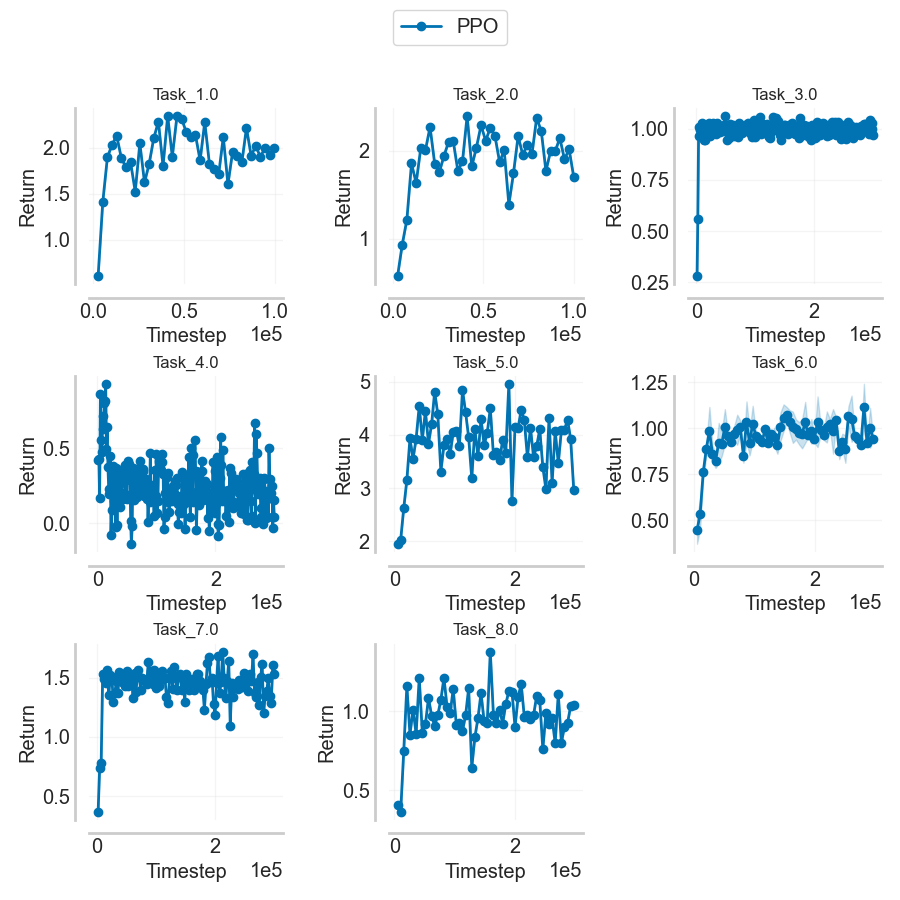
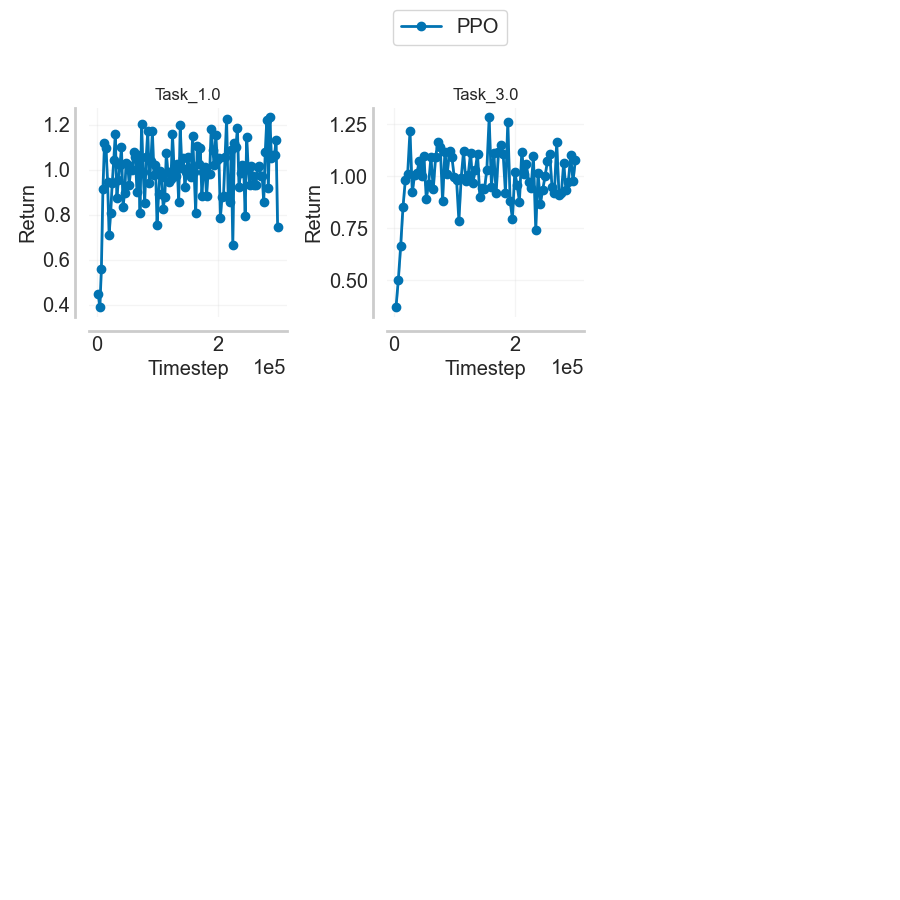
save data for each environments to individual spaces

diff --git a/plotting/plot_no_avg.py b/plotting/plot_no_avg.py
@@ -1,0 +1,79 @@
+import os
+
+import numpy as np
+import seaborn
+
+import matplotlib
+from sympy.printing.pretty.pretty_symbology import line_width
+
+matplotlib.use('TkAgg')
+import matplotlib.pyplot as plt
+
+from rliable import library as rly
+from rliable import metrics
+from rliable.plot_utils import plot_sample_efficiency_curve
+
+from utils import get_data
+
+if __name__ == "__main__":
+
+    data_dict = {}
+    seaborn.set_theme(style='whitegrid')
+
+    n_rows = 3
+    n_cols = 3
+    fig = plt.figure(figsize=(n_cols*3,n_rows*3))
+    i = 1
+
+    env_ids = ['Task_1.0', 'Task_2.0', 'Task_3.0', 'Task_4.0', 'Task_5.0', 'Task_6.0', 'Task_7.0', 'Task_8.0', 'Task_9.0']
+
+    for env_id in env_ids:
+        results_dir = f"../results/{env_id}/ppo/"
+        if not os.path.exists(results_dir):
+            print (f'Task {env_id} does not have result!')
+            continue
+
+        ax = plt.subplot(n_rows, n_cols, i)
+        ax.set_title(env_id)
+        i+=1
+
+        plt.ticklabel_format(style='sci', axis='x', scilimits=(0, 0))
+
+        # individual record for each environment
+        timesteps, returns, env_ids = get_data(results_dir, x_name='timestep', y_name='returns')
+        returns = returns[0]
+
+        if isinstance(returns, float):
+            ax.plot(timesteps, returns, label='Mean Return')
+        else:  # Handling return_list
+            num_envs = len(returns[0])  # Number of environments
+            num_timesteps = len(timesteps)  # Number of timesteps
+
+            env_returns = [[] for _ in range(num_envs)]
+
+            # Organizing data per environment
+            for t in range(num_timesteps):
+                for env in range(num_envs):
+                    env_returns[env].append(returns[t][env])
+
+            # Plot each environment's results
+            for env_idx, env_data in enumerate(env_returns):
+                ax.plot(timesteps, env_data, label=env_ids[env_idx],linewidth=1.0)
+
+        # Set log scale
+        # plt.xscale('log')
+        # plt.yscale('log')
+        ax.legend(loc="upper left", fontsize="small")
+
+    plt.tight_layout()
+
+    # Push plots down to make room for the the legend
+    fig.subplots_adjust(top=0.88)
+
+
+    save_dir = f'figures'
+    save_name = f'return_noavg.png'
+    os.makedirs(save_dir, exist_ok=True)
+    plt.savefig(f'{save_dir}/{save_name}')
+
+    plt.show()

diff --git a/ppo_discrete_action_multitask.py b/ppo_discrete_action_multitask.py
@@ -392,24 +392,32 @@ if __name__ == "__main__":
         update_count += 1
 
         if iteration % args.eval_freq == 0:
-            return_avg, return_std, success_avg, success_std, return_list = simulate(env=envs_eval, actor=agent, eval_episodes=args.eval_episodes)
-            return_avg = return_avg / (float)(args.num_envs)
+            returns, return_avg, return_std, success_avg, success_std = simulate(env=envs_eval, actor=agent, eval_episodes=args.eval_episodes)
+            returns = returns[0]
 
             print(f"Eval num_timesteps={global_step}")
             print(f"episode_return={return_avg:.2f} +/- {return_std:.2f}")
             print(f"episode_success={success_avg:.2f} +/- {success_std:.2f}")
-            print()
+
+            print(f"results_for_each_envs={returns}")
 
             logs['timestep'].append(global_step)
-            logs['return'].append(return_avg)
+            logs['returns'].append(returns) # individual results for each environments in this eval
+            logs['return_avg'].append(return_avg) # average result in this eval
             logs['success_rate'].append(success_avg)
             logs['update'].append(update_count)
-            logs['return_list'].append(return_list)
 
             np.savez(
                 f'{args.output_dir}/evaluations.npz',
                 **logs,
             )
+
+    for env_id_cur in args.env_ids:
+        logs['env_ids'].append(env_id_cur)
+    np.savez(
+        f'{args.output_dir}/evaluations.npz',
+        **logs,
+    )
 
     if args.save_model:
         model_path = f"runs/{run_name}/{args.exp_name}.cleanrl_model"

diff --git a/utils.py b/utils.py
@@ -6,6 +6,7 @@ import torch
 def simulate(env, actor, eval_episodes, eval_steps=np.inf):
     logs = defaultdict(list)
     step = 0
+    num_env = 0
     for episode_i in range(eval_episodes):
         logs_episode = defaultdict(list)
 
@@ -31,21 +32,24 @@ def simulate(env, actor, eval_episodes, eval_steps=np.inf):
 
             step += 1
 
+            num_env = len(rewards)
+
             if step >= eval_steps:
                 break
         if step >= eval_steps:
             break
 
-        logs['returns'].append(np.sum(logs_episode['rewards']))
+        logs['returns'].append(logs_episode['rewards'])
+        logs['returns_avg'].append(np.mean(logs_episode['rewards']))
         try:
             logs['successes'].append(infos['is_success'])
         except:
             logs['successes'].append(False)
 
-    return_avg = np.mean(logs['returns'])
+    returns = np.mean(logs['returns'], axis = 0)
+    return_avg = np.mean(logs['returns_avg'])
     return_std = np.std(logs['returns'])
     success_avg = np.mean(logs['successes'])
     success_std = np.std(logs['successes'])
-    return_list = logs['returns']
-    return return_avg, return_std, success_avg, success_std, return_list
+    return returns, return_avg, return_std, success_avg, success_std
     # return np.array(eval_returns), np.array(eval_obs), np.array(eval_actions), np.array(eval_rewards)

diff --git a/plotting/utils.py b/plotting/utils.py
@@ -109,7 +109,7 @@ import warnings
 
 import numpy as np
 
-def get_data(results_dir, x_name='timestep', y_name='return', filename='evaluations.npz'):
+def get_data(results_dir, x_name='timestep', y_name='returns', lable_name='env_ids', filename='evaluations.npz'):
 
     paths = []
     try:
@@ -143,6 +143,7 @@ def get_data(results_dir, x_name='timestep', y_name='return', filename='evaluati
                 length = len(y)
             if len(y) == length:
                 y_list.append(y)
+            z = data_file[lable_name]
 
-    return x, np.array(y_list)
+    return x, np.array(y_list), z
 

diff --git a/plotting/plot.py b/plotting/plot.py
@@ -4,6 +4,8 @@ import numpy as np
 import seaborn
 
 import matplotlib
+from sympy.printing.pretty.pretty_symbology import line_width
+
 matplotlib.use('TkAgg')
 import matplotlib.pyplot as plt
 
@@ -37,7 +39,7 @@ if __name__ == "__main__":
         i+=1
 
         # Now we can use dot notation which is much cleaner
-        x, y = get_data(results_dir, x_name='timestep', y_name='return', filename='evaluations.npz')
+        x, y, env_ids = get_data(results_dir, x_name='timestep', y_name='return_avg', filename='evaluations.npz')
         if y is not None:
             data_dict[key] = y
 
